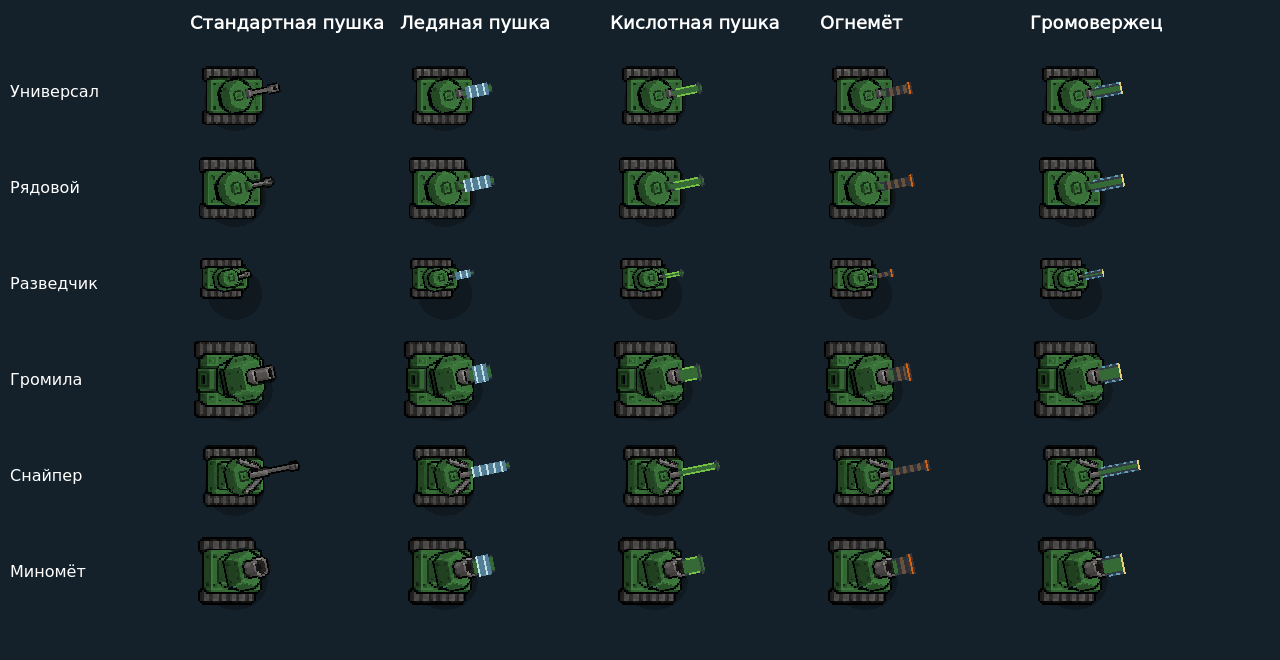
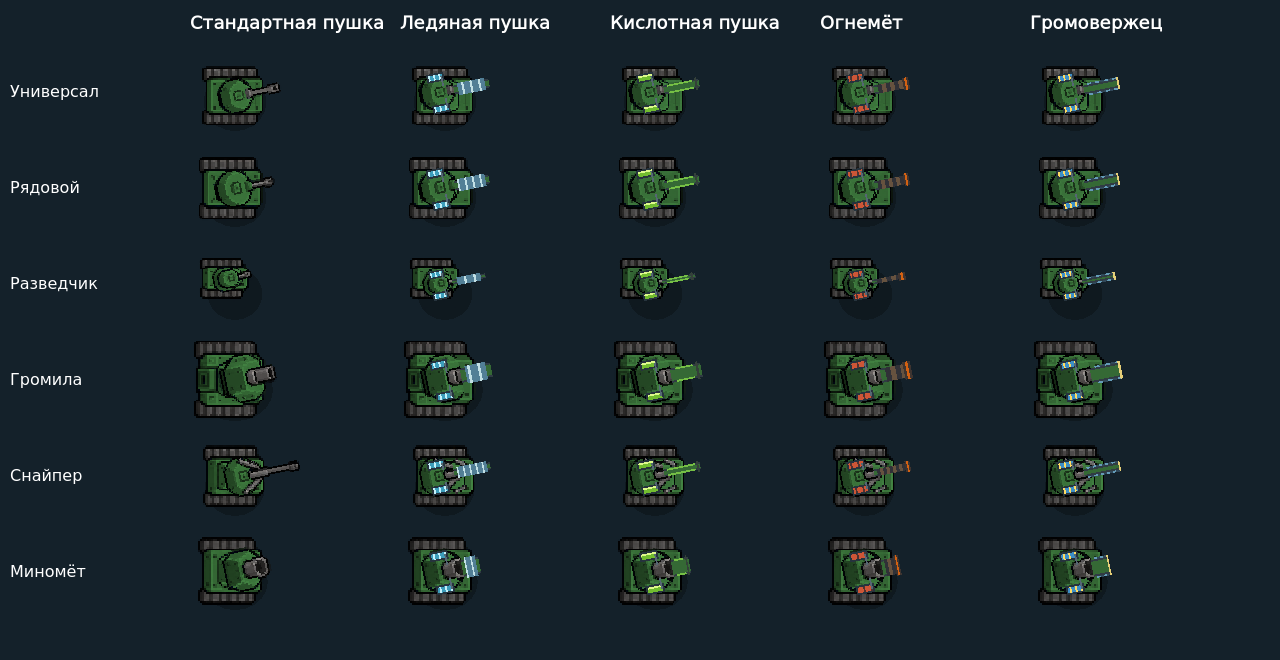
Подключить текстуры боссов и доработать модели пушек; 0.9.75

diff --git a/docs/weapon-and-boss-rendering.md b/docs/weapon-and-boss-rendering.md
@@ -1,0 +1,18 @@
+# Орудия и текстуры боссов (0.9.75)
+
+Элементальные орудия сохраняют родную башню каждого из шести игровых классов. Центральная полоса ствола теперь отображается до существующей точки выстрела `tank.muzzle_len`. Корпус башни и боковые детали не растягиваются. Цвет, маска скина, перегрев и статусные оттенки используют одинаковое преобразование. Ось этих стволов совпадает с осью выстрела; игровая точка выстрела и геометрия столкновений не меняются.
+
+Дополнительные модули (`TankSprites.weapon_modules`) рисуются поверх косметики и сохраняют функциональные цвета: ледяные радиаторы, кислотные резервуары, топливные баллоны и электрические катушки. Они кэшируются отдельно от родной текстуры и не перезаписывают её пиксели. Пушки обычных врагов сохраняют свои авторские спрайты.
+
+`BossSprites` подключает существующие атласы `art/tanks/bosses/` к общему `WorldView`, который используют бой, меню и справочник. Опорные точки и относительные размеры модулей взяты из исходных сцен боссов. Каждая половина атласа один раз загружается в отдельную текстуру: это необходимо, чтобы CanvasTexture с Nearest не потерял UV-область AtlasTexture и не показал вторую половину рядом с корпусом.
+
+Бронемонстр и Химера поворачивают башню независимо от корпуса. У Тарана командный модуль закреплён на корпусе; фальшивой пушки нет. Передний участок стволов подогнан к существующей игровой точке выстрела без растяжения корпуса башни. Клон использует атлас Химеры с голубым оттенком. Маскировка, заморозка, горение, силуэты закрытых карточек и общие боевые эффекты продолжают накладываться поверх. Полосы состояния боссов подняты, чтобы не перекрывать сопла и стволы.
+
+Проверки:
+- `class_guns_check`: шесть классов × пять пушек, совпадение конца элементального ствола с muzzle_len, кэширование модулей, скины и сохранность исходной башни/боевых параметров.
+- `tank_sprites_check`, `boss_sprites_check`: выбор текстур, раздельные половины атласов, фильтрация, масштаб и неизменность геометрии.
+- `boss_runtime_preview`: четыре вида, повороты, повреждение и статусы, закрытые силуэты; отрисовка с World и без него.
+- `tank_skins_preview`: различимость орудий на шести классах и восьми скинах.
+- `bestiary_dashboard_check`: работа карточек на RU/EN/FR/ES.
+
+Скриншоты в `screenshots/boss_runtime.png`, `screenshots/class_guns.png`, `screenshots/tank_skins.png` показывают тестовые образцы. Тестовые сцены исключены из экспорта.
